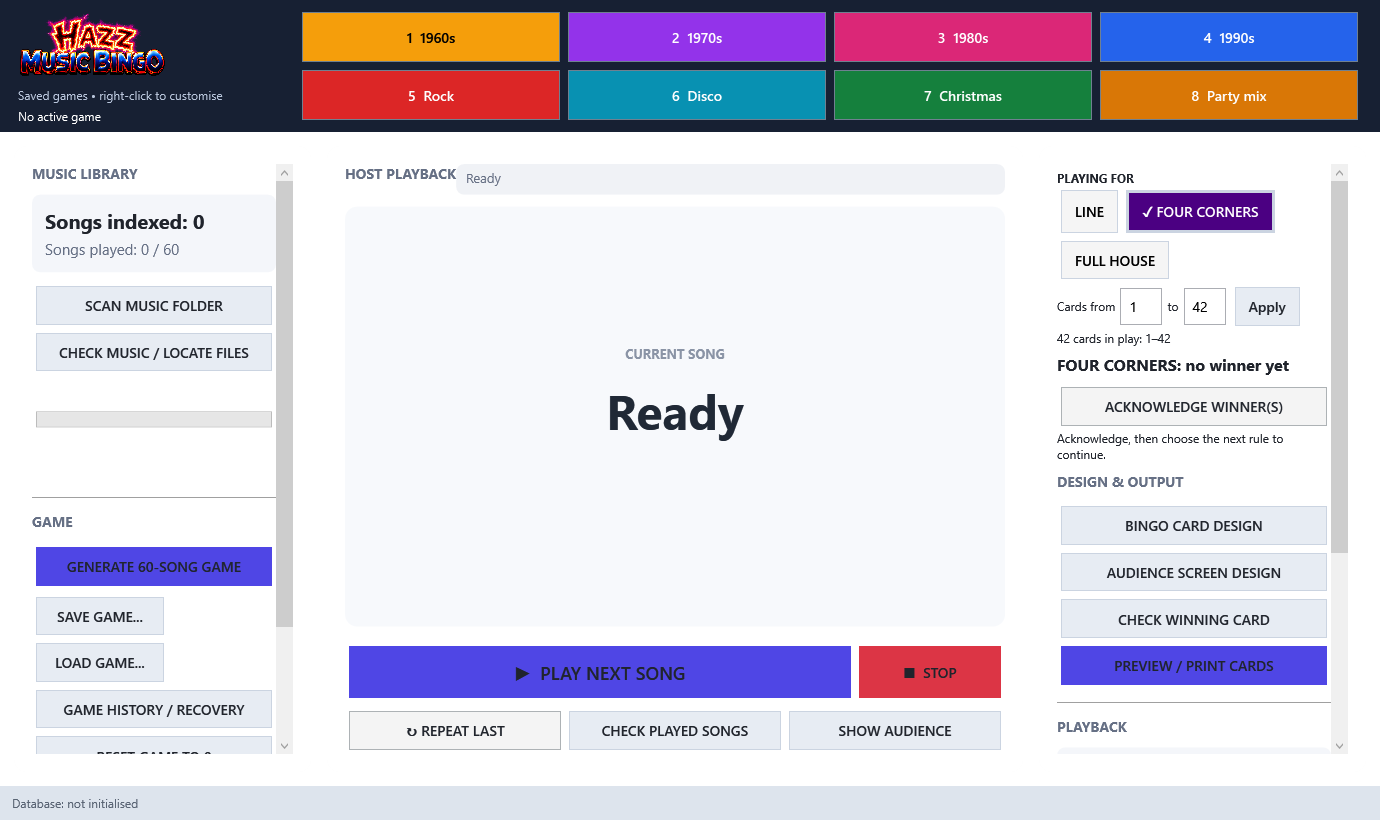
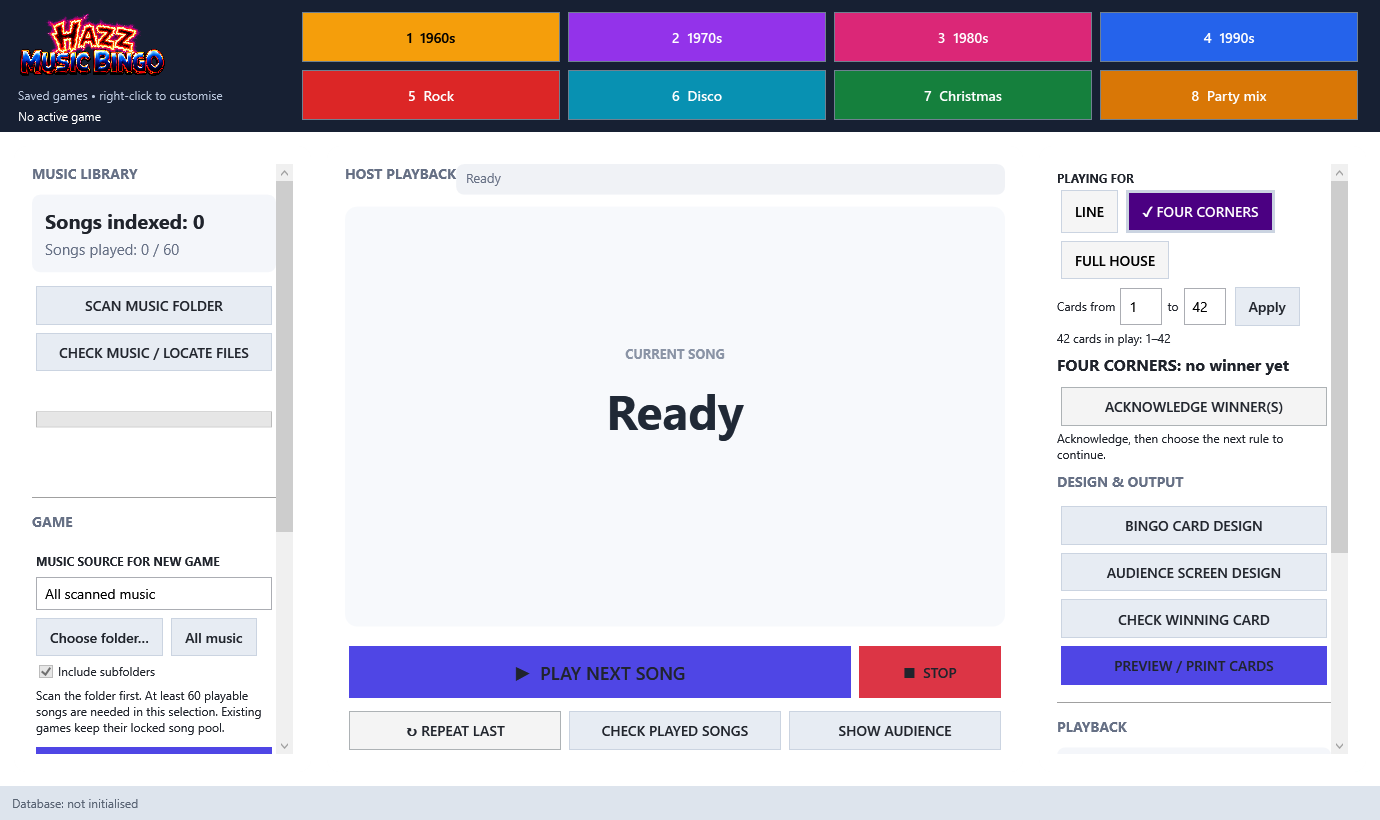
Add folder-scoped game generation with optional subfolders

Changed region(s): [[0.0, 0.6402, 0.2181, 0.9451]]

diff --git a/src/HazzMusicBingo/Views/MainWindow.xaml b/src/HazzMusicBingo/Views/MainWindow.xaml
@@ -136,7 +136,17 @@
                         <TextBlock Text="GAME"
                                    Style="{StaticResource SectionHeading}"/>
 
+                        <TextBlock Text="MUSIC SOURCE FOR NEW GAME" FontWeight="Bold" Margin="4,10,4,4"/>
+                        <TextBox x:Name="GameSourceBox" Text="All scanned music" IsReadOnly="True" TextWrapping="Wrap" Margin="4"/>
+                        <WrapPanel>
+                            <Button Content="Choose folder…" Click="ChooseGameFolder_Click"/>
+                            <Button Content="All music" Click="AllGameMusic_Click"/>
+                        </WrapPanel>
+                        <CheckBox x:Name="IncludeGameSubfoldersBox" Content="Include subfolders" IsChecked="True" IsEnabled="False" Margin="6,4"/>
+                        <TextBlock Text="Scan the folder first. At least 60 playable songs are needed in this selection. Existing games keep their locked song pool." TextWrapping="Wrap" FontSize="12" Margin="4,4,4,8"/>
+
                         <Button x:Name="GenerateGameButton"
+                                ToolTip="Generate using the music source selected below"
                                 Content="GENERATE 60-SONG GAME"
                                 Style="{StaticResource AccentButton}"
                                 Click="GenerateGame_Click"/>

diff --git a/tests/HazzMusicBingo.Regression/FolderSelectionTests.cs b/tests/HazzMusicBingo.Regression/FolderSelectionTests.cs
@@ -1,0 +1,49 @@
+using HazzMusicBingo.Data;
+using HazzMusicBingo.Services;
+using System.IO;
+
+internal static class FolderSelectionTests
+{
+    public static async Task<int> Run(string folder)
+    {
+        var checks = 0;
+        void Check(bool value, string message) { if (!value) throw new Exception(message); checks++; }
+        var db = new AppDatabase(Path.Combine(folder, "folder-selection.db"));
+        await db.InitializeAsync();
+        var root = Path.Combine(folder, "70s");
+        var nested = Path.Combine(root, "Disco");
+        var sibling = Path.Combine(folder, "70s-other");
+        foreach (var dir in new[] { root, nested, sibling })
+        {
+            Directory.CreateDirectory(dir);
+            for (var i = 0; i < 60; i++)
+            {
+                var path = Path.Combine(dir, $"song-{i}.wav");
+                await File.WriteAllBytesAsync(path, [0]);
+                await db.UpsertTrackAsync(path, $"Song {i}", "Artist", 30, 0);
+            }
+        }
+        var service = new GameService(db);
+        var direct = await service.GenerateGameAsync(60, root, false);
+        Check((await db.GetGamePoolAsync(direct)).All(t => Path.GetDirectoryName(t.FilePath) == root), "Only direct folder songs selected");
+        var recursive = await service.GenerateGameAsync(60, root, true);
+        Check((await db.GetGamePoolAsync(recursive)).All(t => GameService.IsInFolder(t.FilePath, root, true)), "Recursive game excludes other folders");
+        Check(GameService.IsInFolder(Path.Combine(nested, "song.wav"), root.ToUpperInvariant() + Path.DirectorySeparatorChar, true), "Case and trailing separator supported");
+        Check(!GameService.IsInFolder(Path.Combine(sibling, "song.wav"), root, true), "Similar folder prefix excluded");
+        Check(!GameService.IsInFolder(Path.Combine(nested, "song.wav"), root, false), "Subfolder excluded when option off");
+        Check(GameService.IsInFolder(Path.Combine(root, "song.wav"), Path.GetPathRoot(root)!, true), "Drive root selection works");
+        File.Delete(Path.Combine(root, "song-0.wav"));
+        try { await service.GenerateGameAsync(60, root, false); throw new Exception("Insufficient selection accepted"); }
+        catch (InvalidOperationException) { checks++; }
+        Check(await db.GetActiveGameIdAsync() == recursive, "Insufficient selection preserves current game");
+        try { await service.GenerateGameAsync(60, Path.Combine(folder, "absent")); throw new Exception("Missing folder accepted"); }
+        catch (DirectoryNotFoundException) { checks++; }
+        Check(await db.GetActiveGameIdAsync() == recursive, "Missing folder preserves current game");
+        var empty = Path.Combine(folder, "unscanned"); Directory.CreateDirectory(empty);
+        try { await service.GenerateGameAsync(60, empty); throw new Exception("Unscanned folder accepted"); }
+        catch (InvalidOperationException) { checks++; }
+        var all = await service.GenerateGameAsync();
+        Check((await db.GetGamePoolAsync(all)).Count == 60 && await db.GetTrackCountAsync() == 180, "All-library generation still works without deleting tracks");
+        return checks;
+    }
+}

diff --git a/src/HazzMusicBingo/Services/GameService.cs b/src/HazzMusicBingo/Services/GameService.cs
@@ -1,5 +1,6 @@
 using HazzMusicBingo.Data;
 using HazzMusicBingo.Models;
+using System.IO;
 
 namespace HazzMusicBingo.Services;
 
@@ -9,19 +10,32 @@ public sealed class GameService
 
     public GameService(AppDatabase db) => _db = db;
 
-    public async Task<long> GenerateGameAsync(int poolSize = 60)
+    public async Task<long> GenerateGameAsync(int poolSize = 60, string? sourceFolder = null, bool includeSubfolders = true)
     {
+        if (sourceFolder is not null && !Directory.Exists(sourceFolder))
+            throw new DirectoryNotFoundException("The selected music folder is unavailable. Reconnect its drive or choose another folder.");
         var library = await _db.GetAllTracksAsync();
+        if (sourceFolder is not null)
+            library = library.Where(t => IsInFolder(t.FilePath, sourceFolder, includeSubfolders)).ToList();
         var available = await Task.Run(() => library.Where(MusicHealthService.IsAvailable).ToList());
         if (available.Count < poolSize)
             throw new InvalidOperationException(
-                $"At least {poolSize} available, successfully scanned songs are required. Found {available.Count} of {library.Count}. Use CHECK MUSIC to locate missing or unreadable files.");
+                $"At least {poolSize} available, successfully scanned songs are required {(sourceFolder is null ? "in the library" : "in the selected folder" )}. Found {available.Count} of {library.Count} indexed songs in this selection. Scan the folder or use CHECK MUSIC to locate missing or unreadable files. No songs from other folders will be added to this selection.");
 
         var tracks = available.OrderBy(_ => Random.Shared.Next()).Take(poolSize).ToList();
         if (tracks.Count != poolSize)
             throw new InvalidOperationException("The requested game pool could not be created.");
 
         return await _db.CreateGameAsync(tracks);
+    }
+
+    public static bool IsInFolder(string filePath, string folder, bool includeSubfolders)
+    {
+        var directory = Path.GetDirectoryName(Path.GetFullPath(filePath));
+        var root = Path.TrimEndingDirectorySeparator(Path.GetFullPath(folder));
+        if (string.Equals(directory, root, StringComparison.OrdinalIgnoreCase)) return true;
+        var prefix = Path.EndsInDirectorySeparator(root) ? root : root + Path.DirectorySeparatorChar;
+        return includeSubfolders && directory is not null && directory.StartsWith(prefix, StringComparison.OrdinalIgnoreCase);
     }
 
     public Task<Track?> GetNextTrackAsync(long gameId) =>

diff --git a/src/HazzMusicBingo/Views/MainWindow.xaml.cs b/src/HazzMusicBingo/Views/MainWindow.xaml.cs
@@ -33,6 +33,22 @@ public partial class MainWindow : Window
     private CancellationTokenSource? _scanCts;
     private bool _manualStopRequested;
     private int _playbackOperationId;
+    private string? _gameSourceFolder;
+
+    private void ChooseGameFolder_Click(object sender, RoutedEventArgs e)
+    {
+        using var dialog = new Forms.FolderBrowserDialog { Description = "Choose the scanned music folder for new games", ShowNewFolderButton = false };
+        if (dialog.ShowDialog() == Forms.DialogResult.OK) SetGameSource(dialog.SelectedPath);
+    }
+
+    private void AllGameMusic_Click(object sender, RoutedEventArgs e) => SetGameSource(null);
+
+    private void SetGameSource(string? folder)
+    {
+        _gameSourceFolder = folder;
+        GameSourceBox.Text = folder ?? "All scanned music";
+        IncludeGameSubfoldersBox.IsEnabled = folder is not null;
+    }
 
     public MainWindow()
     {
@@ -174,6 +190,8 @@ public partial class MainWindow : Window
 
             ScanStatusText.Text =
                 $"Scan complete. {count:N0} music files processed.";
+            SetGameSource(scanFolder);
+            IncludeGameSubfoldersBox.IsChecked = true;
 
             await RefreshStatusAsync();
         }
@@ -217,7 +235,7 @@ public partial class MainWindow : Window
         {
             var result = MessageBox.Show(
                 this,
-                "Generating a new game will close the current game. Continue?",
+                $"Generating a new game will close the current game.\n\nMusic source: {_gameSourceFolder ?? "All scanned music"}\nInclude subfolders: {IncludeGameSubfoldersBox.IsChecked == true}\n\nContinue?",
                 "Generate new game",
                 MessageBoxButton.YesNo,
                 MessageBoxImage.Question);
@@ -233,7 +251,7 @@ public partial class MainWindow : Window
             _lastTrack = null;
 
             _gameId =
-                await _gameService.GenerateGameAsync(60);
+                await _gameService.GenerateGameAsync(60, _gameSourceFolder, IncludeGameSubfoldersBox.IsChecked == true);
 
             CurrentTitleText.Text = "Ready";
             CurrentArtistText.Text = "";

diff --git a/tests/HazzMusicBingo.Regression/Program.cs b/tests/HazzMusicBingo.Regression/Program.cs
@@ -109,5 +109,6 @@ using (var player = new AudioClipPlayer())
 checks += await FeatureTests.Run(folder);
 checks += await LiveWinnerTests.Run(folder);
 checks += await GameShortcutTests.Run(folder);
+checks += await FolderSelectionTests.Run(folder);
 checks += await UiTests.Run(args.FirstOrDefault() ?? Path.Combine(folder, "screenshots"));
 Console.WriteLine($"PASS: {checks} checks; 20 generated card sets; isolated database at {folder}");

diff --git a/docs/USER_GUIDE.md b/docs/USER_GUIDE.md
@@ -183,3 +183,13 @@ The header screenshot uses example assignments; the eight buttons start empty so
 At the top of **AUDIENCE SCREEN DESIGN**, use **WINNING RULE / WIN ANNOUNCEMENT** to choose a separate message font, size (12–80), colour, bold and italic. The preview shows “WE ARE PLAYING FOR A FULL HOUSE”. The same style is used for Line, Four Corners, Full House and their WON messages, without changing the song title or artist style. Select **Use Design** to apply it.
 
 These controls are also available through a game button's **Audience theme…** editor. They travel with that button's theme and audience-design preset files. If you change them through the main audience designer, right-click the game button and choose **Store current audience style** to retain them there. Older themes without these fields retain the previous font/colour fallback and 34-point bold text.
+
+## Generate a game from one music folder
+
+Under **GAME → MUSIC SOURCE FOR NEW GAME**, click **Choose folder…** and select a folder you have already scanned. Leave **Include subfolders** ticked to include its child folders, or untick it for files directly inside that folder. Then click **GENERATE 60-SONG GAME**. Generation uses only indexed, available songs within that selection. A similarly named neighbouring folder is not included.
+
+A successful **SCAN MUSIC FOLDER** automatically selects the scanned folder, with subfolders included, for the next new game. The rest of the indexed library is retained. **All music** restores generation from the complete scanned library. The selector starts at All scanned music when the app restarts, so confirm it before generating a new game.
+
+For a 1970s game: scan your 70s folder, confirm that path is shown as the source, generate the game, create/print its cards, and save a `.hmbgame` file. Assign that save to your 1970s game button and set its audience theme. The saved game's exact song pool is already locked; switching buttons or changing the generation source does not change existing games.
+
+The selected folder needs at least 60 available songs with a successful scanned duration. Missing/unscanned folders or too few available songs stop generation and leave the active database game intact. No fallback songs are drawn from other folders. Choosing a folder alone does not scan it; scan first if it is new.

diff --git a/docs/QUICK_START.md b/docs/QUICK_START.md
@@ -59,3 +59,7 @@ For installation, music relinking, all design/printing options, recovery and tro
 5. Repeat for up to eight games. Click a button to switch; switching back resumes progress.
 
 Right-click a button to edit it or store your current audience style. Changes to a button's theme do not reset songs. Use your own period artwork and installed fonts for decade games.
+
+## Keep a decade game within its own folder
+
+Scan your 70s folder. Under **GAME**, confirm **MUSIC SOURCE FOR NEW GAME** shows that folder, choose whether to include subfolders, then generate. You can also use **Choose folder…** to select any previously scanned folder. At least 60 playable songs are required in that selection. Save the completed game and assign it to your 1970s button. **All music** returns to the whole library; existing saved games are never changed by this selector.

diff --git a/CHANGELOG.md b/CHANGELOG.md
@@ -32,3 +32,4 @@ Hardware-dependent audio, physical printing and multi-monitor rehearsal remain r
 - Assignments own copies of game saves and artwork; switching resumes local progress and applies the assigned theme.
 - Added button persistence, validation and regression coverage without changing existing saved-game schemas.
 - Added independent audience winning-message font, size, colour, bold and italic controls with live preview and theme persistence.
+- Added folder-only game generation with optional subfolders. A successful scan selects that folder for new games; All music restores whole-library selection. Insufficient selections never pull in songs from elsewhere.
